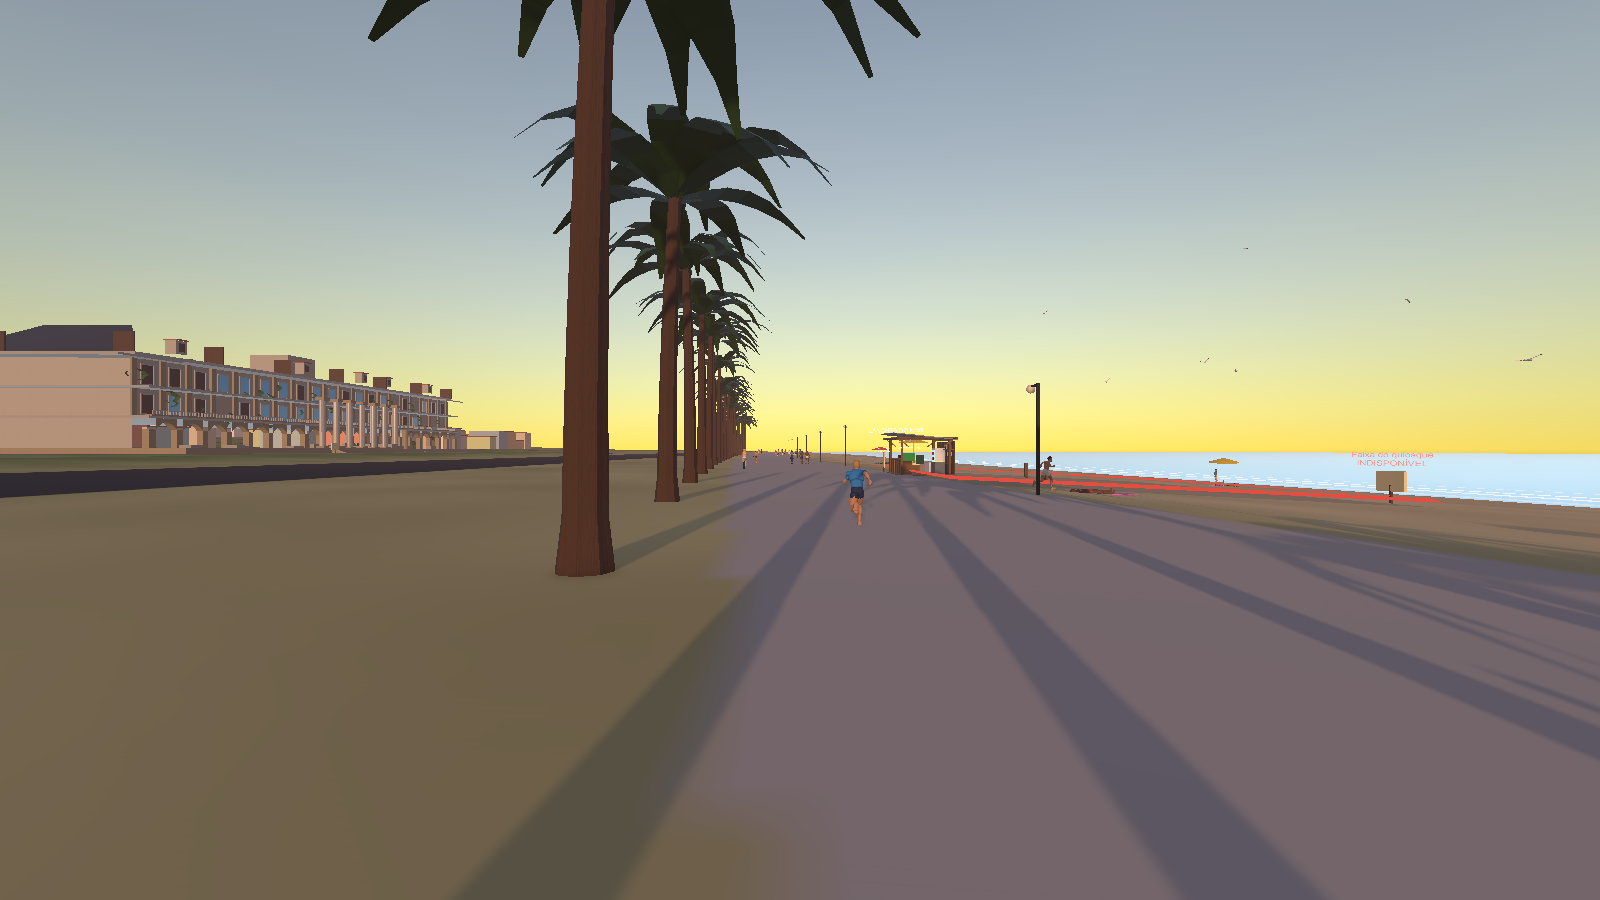
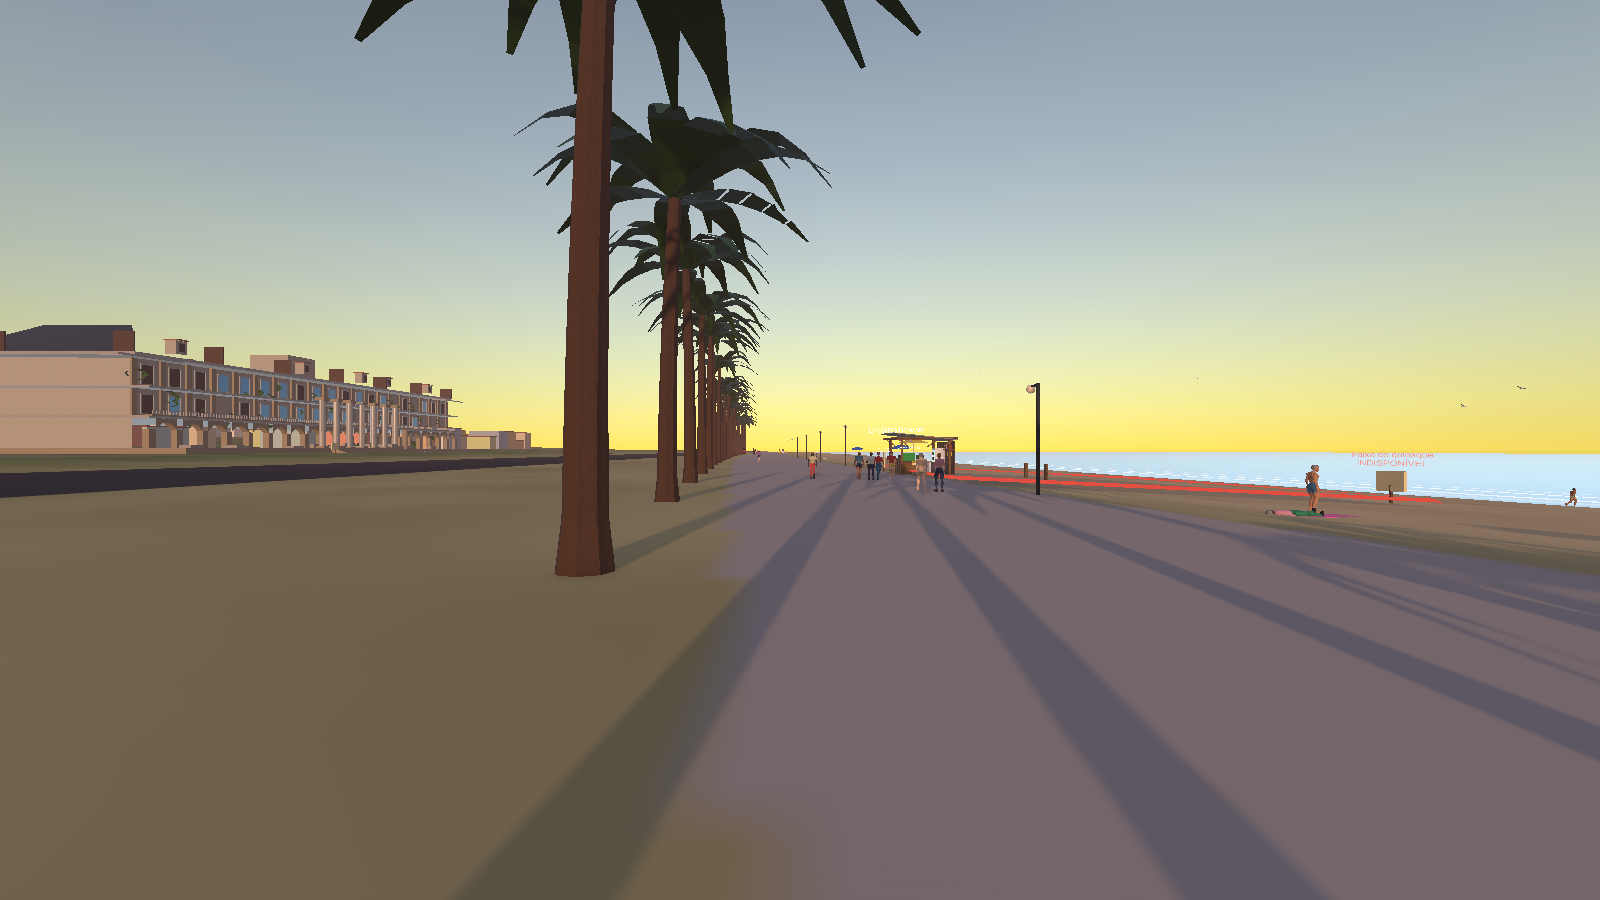
Phase 02: record round-2 report, current task and first-day balance guard

diff --git a/FacilityOps/Assets/_Game/Tests/PlayMode/LivingWorldTests.cs b/FacilityOps/Assets/_Game/Tests/PlayMode/LivingWorldTests.cs
@@ -104,6 +104,27 @@ namespace ResortAurora.Tests
             StringAssert.Contains(Catalog.Products[0].Name + " 3", ServiceHints.LowStock(stall));
         }
 
+        /// <summary>Balance guard (expected values, no randomness): a first day with base prices must be worth playing and must pay for itself.</summary>
+        [Test]
+        public void FirstDayDemandIsWorthPlayingAndProfitable()
+        {
+            var stall = new StallModel();
+            var ledger = new Ledger(new ResortAurora.Core.EventBus(), 100000);
+            foreach (var p in Catalog.Products) stall.Buy(p.Id, 60, ledger, 1);
+            float expected = 0f, peak = 0f;
+            for (int h = 6; h < 22; h++)
+            {
+                float perHour = DemandModel.Passersby(h, Weather.Sunny) * DemandModel.StopChance(stall);
+                expected += perHour; peak = Mathf.Max(peak, perHour);
+            }
+            Assert.That(expected, Is.InRange(25f, 70f), "customers on a normal first day");
+            Assert.That(peak, Is.InRange(3f, 9f), "peak customers per hour a single player can serve");
+            // average margin per sale, weighted by appeal
+            float margin = 0f, weight = 0f;
+            foreach (var p in Catalog.Products) { margin += p.Appeal * (p.BasePrice - p.UnitCost); weight += p.Appeal; }
+            Assert.Greater(expected * margin / weight, 120f, "profit of a normal first day covers the first upgrade within a couple of days");
+        }
+
         [Test]
         public void PopulationFollowsTheHourAndTheWeather()
         {

diff --git a/Docs/PROJECT_RESORT_EXECUTION/RELATORIO_02_VERTICAL_SLICE_QUIOSQUE.md b/Docs/PROJECT_RESORT_EXECUTION/RELATORIO_02_VERTICAL_SLICE_QUIOSQUE.md
@@ -65,7 +65,7 @@ Seguindo `Docs/ASSET_LIBRARY/UNITY_FREE_ASSETS.md` (prioridade A): pessoas próx
 ## Limitações que permanecem
 - Personagens, quiosque, guarda-sóis e fauna são blockout procedural; mar é plano com espuma, sem shader de água; sem arte final.
 - Sem sessão humana: ritmo, clareza do HUD, diversão e "vida" percebida **não foram avaliados**. A fase 03 continua bloqueada até essa aprovação.
-- Estágio 2+ (quiosque exportado): clientes ainda não sentam (mesas do estágio 1 ficam ocultas).
+- ~~Estágio 2+ (quiosque exportado): clientes ainda não sentam~~ — resolvido no adendo de 2026-10-06 (rodada 2).
 - Áudio procedural não foi ouvido por uma pessoa nesta rodada (só medido: pico, RMS, volumes por hora).
 - UI continua IMGUI provisória.
 
@@ -74,3 +74,24 @@ Seguindo `Docs/ASSET_LIBRARY/UNITY_FREE_ASSETS.md` (prioridade A): pessoas próx
 powershell -ExecutionPolicy Bypass -File Tools/Autonomy/Run-UnityResortTests.ps1 -Graphics
 ```
 Depois abrir `ResortPrologue` e jogar: olhar o calçadão às 12h, 18h20 e 20h30, conferir a geladeira (E), ouvir o mar e observar as palmeiras.
+
+---
+
+# Adendo 2 — mesas do estágio 2, HUD de próximo passo, guarda de balanceamento (2026-10-06, rodada 2)
+
+**Status: COMPILADO, TESTADO (20/20 PlayMode, modo gráfico, sem erros no console) e CAPTURADO. Gate técnico segue PASS. `HUMAN_GATE_PENDING` continua; a Fase 03 NÃO está liberada.**
+
+## O que mudou
+- **Clientes sentam no quiosque exportado (estágio 2+)**: `StallLayout.AddKioskSeats` cria 10 cadeiras nas 5 mesas do deck do modelo de Blender (mesas em x ±7 m e 1/4/7 m atrás da origem; a mesa oeste a 7 m foi pulada porque o modelo a coloca dentro do bloco de banheiros — defeito do `sa_stages.kiosk`, a corrigir na próxima regeneração do FBX). Os assentos do estágio 1 desligam e os do deck ligam em `SetKioskLook`. Rota própria (`RouteToSeat`): sai pela ponta do balcão (x ±5,2 m), desce pelo corredor entre as mesas e atravessa até a cadeira, e volta pelo mesmo caminho.
+- **Altura sobre o deck**: o deck do estágio 2 fica 0,14 m acima do chão; `StallLayout.Ground` agora o considera (`OnDeck`, `DeckLift`), então a fila e os clientes ficam em cima do deck, e não 14 cm dentro dele. Antes, a fila do estágio 2 afundava os pés.
+- **HUD** (`Sim/ServiceHints.cs`, puro, e `ResortHud.DrawHint`): faixa sob a barra de status com o próximo passo ("Abra o quiosque na placa", "Cliente na fila: anote o pedido no balcão", "Pedido na chapa: segure [E] na grelha", "Pedido pronto: entregue no balcão", "Dia encerrado: volte para casa...") e aviso de estoque baixo (≤ 3 un.). A barra de status passou a mostrar ABERTO/FECHADO/FECHANDO e as vendas do dia (R$).
+- **Guarda de balanceamento** (valores esperados, sem aleatoriedade): primeiro dia com preços-base ≈ 25–70 clientes, pico de 3–9 clientes/hora e lucro esperado > R$ 120. Não altera a curva; só avisa se alguém desbalancear.
+
+## Evidência
+- `Run-UnityResortTests.ps1 -Graphics` -> `TESTS total=20 passed=20 failed=0`. Novos: `ServedCustomersSitOnTheDeckTablesOfTheStageTwoKiosk` (cliente chega, senta e permanece na cadeira do deck; alturas seguem o deck), `HudHintsPointToTheNextStepAndFlagLowStock`, `FirstDayDemandIsWorthPlayingAndProfitable`.
+- Captura real da Unity: `ArtSource/Blender/World/Reviews/F02/f02_7_estagio2_clientes_no_deck.png` (cliente sentado na mesa do deck do quiosque do estágio 2; o texto espelhado nos letreiros é só porque a câmera do teste foi movida antes do `LateUpdate` do Billboard).
+
+## Limitações
+- O HUD é IMGUI provisório e **não foi visto por uma pessoa**; os textos do HUD não aparecem nas capturas de câmera (IMGUI não vai para `Camera.Render`).
+- Sentar continua pose procedural (sem clipes de cadeira nos pacotes gratuitos avaliados).
+- A mesa oeste a 7 m do modelo do quiosque atravessa o bloco de banheiros (modelagem).

diff --git a/Docs/PROJECT_RESORT_EXECUTION/CLAUDE_CURRENT_TASK.md b/Docs/PROJECT_RESORT_EXECUTION/CLAUDE_CURRENT_TASK.md
@@ -1,6 +1,6 @@
 # PROJECT RESORT — Tarefa Atual do Claude
 
-Atualizado em 2026-10-06 (fim da rodada de validação da Fase 02).
+Atualizado em 2026-10-06 (fim da rodada 2 de refinamentos seguros da Fase 02).
 
 ## Fase atual
 
@@ -10,14 +10,15 @@ A Fase 03 NÃO está liberada.
 
 ## Estado real (verificado no Unity 6000.6.2f1, modo gráfico)
 
-- 17/17 testes de PlayMode passam (`Tools/Autonomy/Run-UnityResortTests.ps1 -Graphics`), sem erros no console.
+- 20/20 testes de PlayMode passam (`Tools/Autonomy/Run-UnityResortTests.ps1 -Graphics`), sem erros no console.
 - Loop completo (casa → praia → abrir → estoque → atender → fechar → caixa → casa → dormir → save/load) coberto por `LoopTests`/`PrologueDayTests` e passando.
 - Praia viva (67–72 pessoas ao meio-dia, LOD/pooling), ciclo dia/pôr do sol/noite com lâmpadas, ondas, gaivotas, palmeiras ao vento, áudio ambiente procedural.
 - Pessoas próximas e médias usam os manequins animados do *Human Basic Motions FREE* (idle/caminhar/correr/conversar), pintados por região; pacote só local (`ThirdParty/`, git-ignorado), com fallback procedural.
 - Mar a 55,1 m do quiosque (antes ~165 m), via `BEACH_WATER_DZ` em `Tools/Map/export_resort_site.py`.
 - Desempenho (render em lote, sem IMGUI): ~2,8 ms/quadro com a multidão; estágio 7 ~2,9 ms.
 - Capturas reais: `ArtSource/Blender/World/Reviews/F02/` e `Desktop\Capturas PROJECT RESORT\01_Unity_Reais\F02_praia_viva_dia_noite\`.
-- Relatório: `RELATORIO_02_VERTICAL_SLICE_QUIOSQUE.md` (adendo de 2026-10-06).
+- Rodada 2 (feita): clientes sentam nas mesas do deck do quiosque do estágio 2 (10 cadeiras, rota própria, altura do deck); HUD com faixa de "próximo passo" + estoque baixo + ABERTO/FECHADO + vendas do dia; guarda de balanceamento do primeiro dia. Captura: `f02_7_estagio2_clientes_no_deck.png`.
+- Relatório: `RELATORIO_02_VERTICAL_SLICE_QUIOSQUE.md` (adendos 1 e 2 de 2026-10-06).
 
 ## Pendente (nada disso se resolve só com código)
 
@@ -26,11 +27,15 @@ A Fase 03 NÃO está liberada.
 
 ## Trabalho seguro dentro da Fase 02 (se a rodada continuar antes do gate humano)
 
-- Clientes sentarem nas mesas também no estágio 2 (quiosque exportado).
-- Melhorar a leitura do HUD do quiosque (fila, pedido, caixa) sem aumentar escopo.
+- ~~Clientes sentarem nas mesas no estágio 2~~ (feito). ~~HUD de próximo passo~~ (feito; falta olhar humano).
+- Corrigir no Blender (`Tools/Blender/sa_stages.py::kiosk`) a mesa oeste a 7 m que cai dentro do bloco de banheiros e então reativar essa mesa em `StallLayout.AddKioskSeats` (exige o `.blend` base e regenerar/re-exportar o FBX do estágio 2).
 - Sentar/deitar/nadar ainda são procedurais: avaliar clipes gratuitos (Human Crafting Animations FREE, Creative Characters FREE) e o aspecto dos corpos animados; se os manequins ainda parecerem artificiais de perto, o Diretor deve apresentar 1–3 opções pagas ao usuário antes de comprar qualquer coisa.
 - Refinar o rig/roupas dos NPCs e o shader/cor do mar; mais variedade de atividades na areia.
-- Ajustar fila/spawn de clientes por horário e reputação (equilíbrio, não novos sistemas).
+- Equilíbrio fino da fila/spawn só com dados de jogada humana (curva atual: 6–8h quase sem clientes; o teste `FirstDayDemandIsWorthPlayingAndProfitable` protege a faixa).
+
+## Próxima ação concreta
+
+Pedir a uma pessoa que jogue dois dias (`ResortPrologue`), anote ritmo/HUD/diversão/áudio e olhe as capturas F02. Só então avaliar o gate humano; sem isso, a Fase 03 permanece bloqueada.
 
 ## O que NÃO fazer
 
